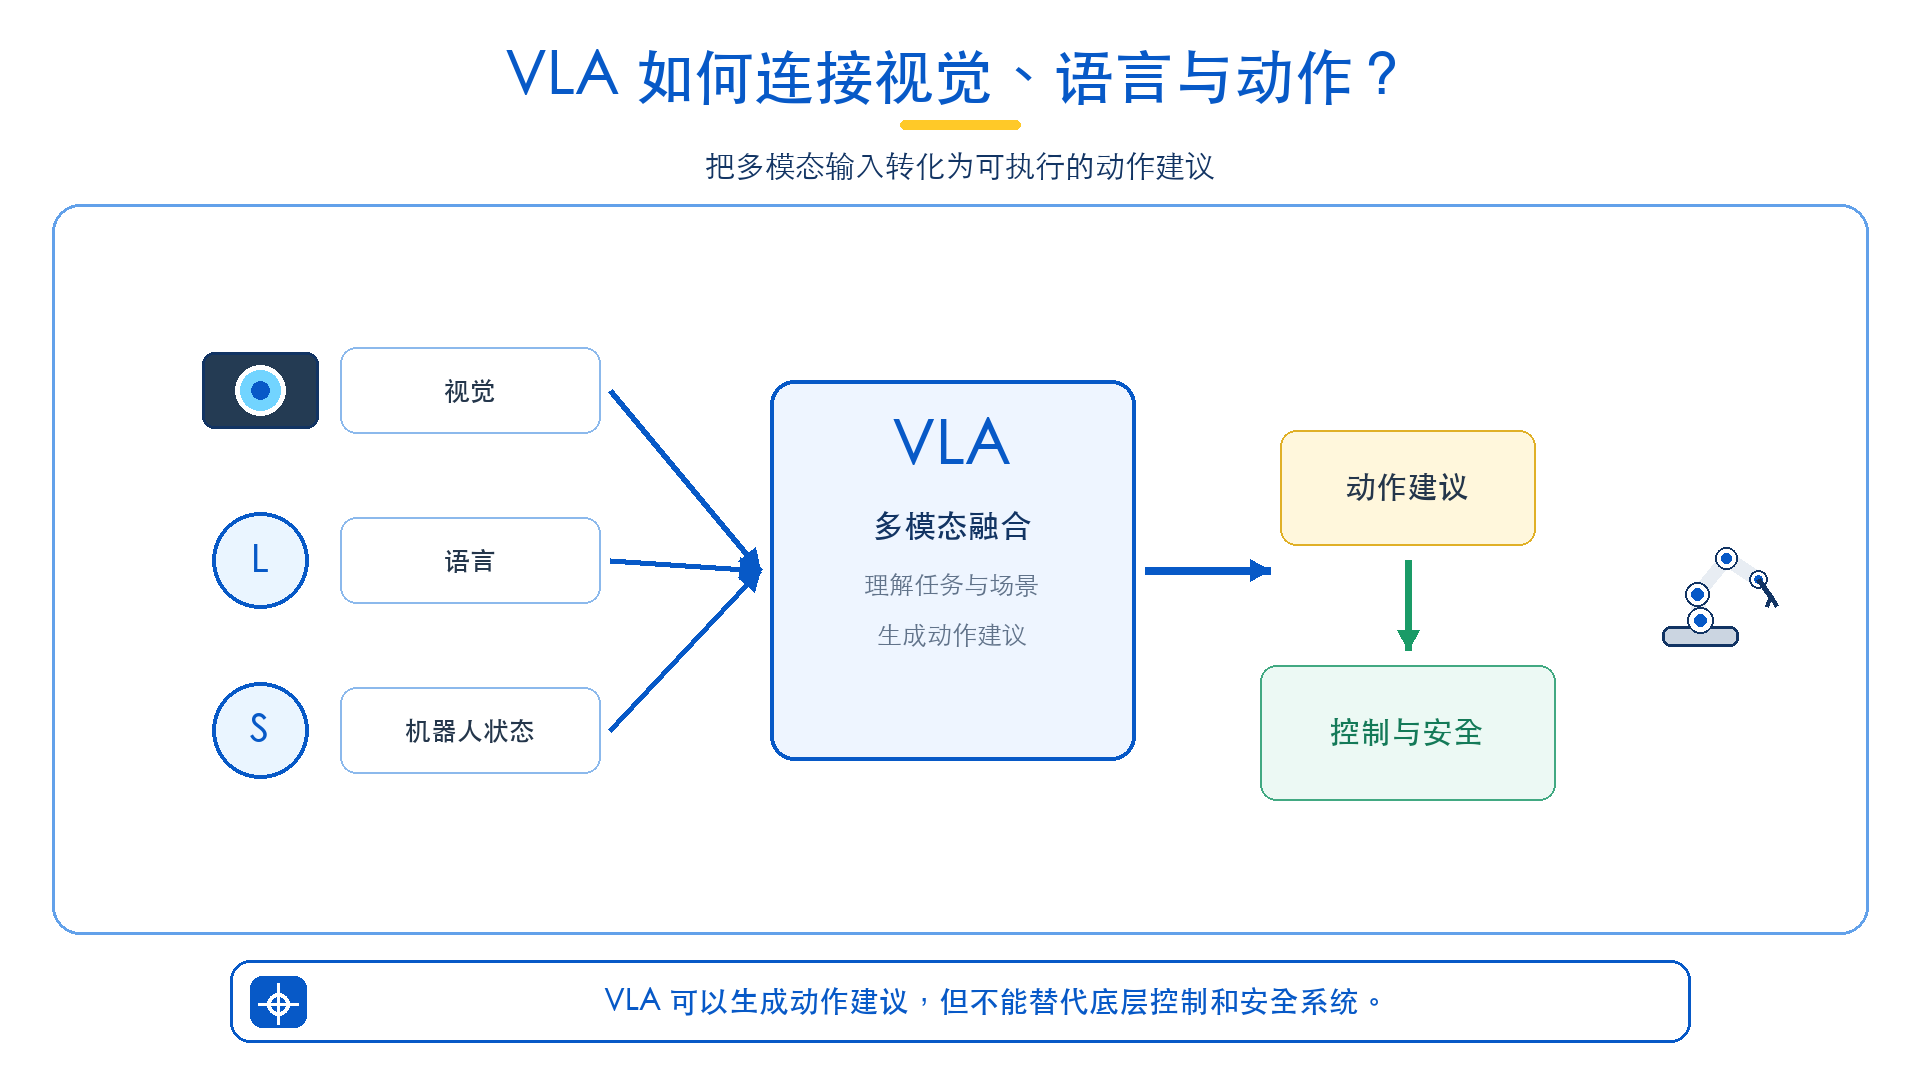
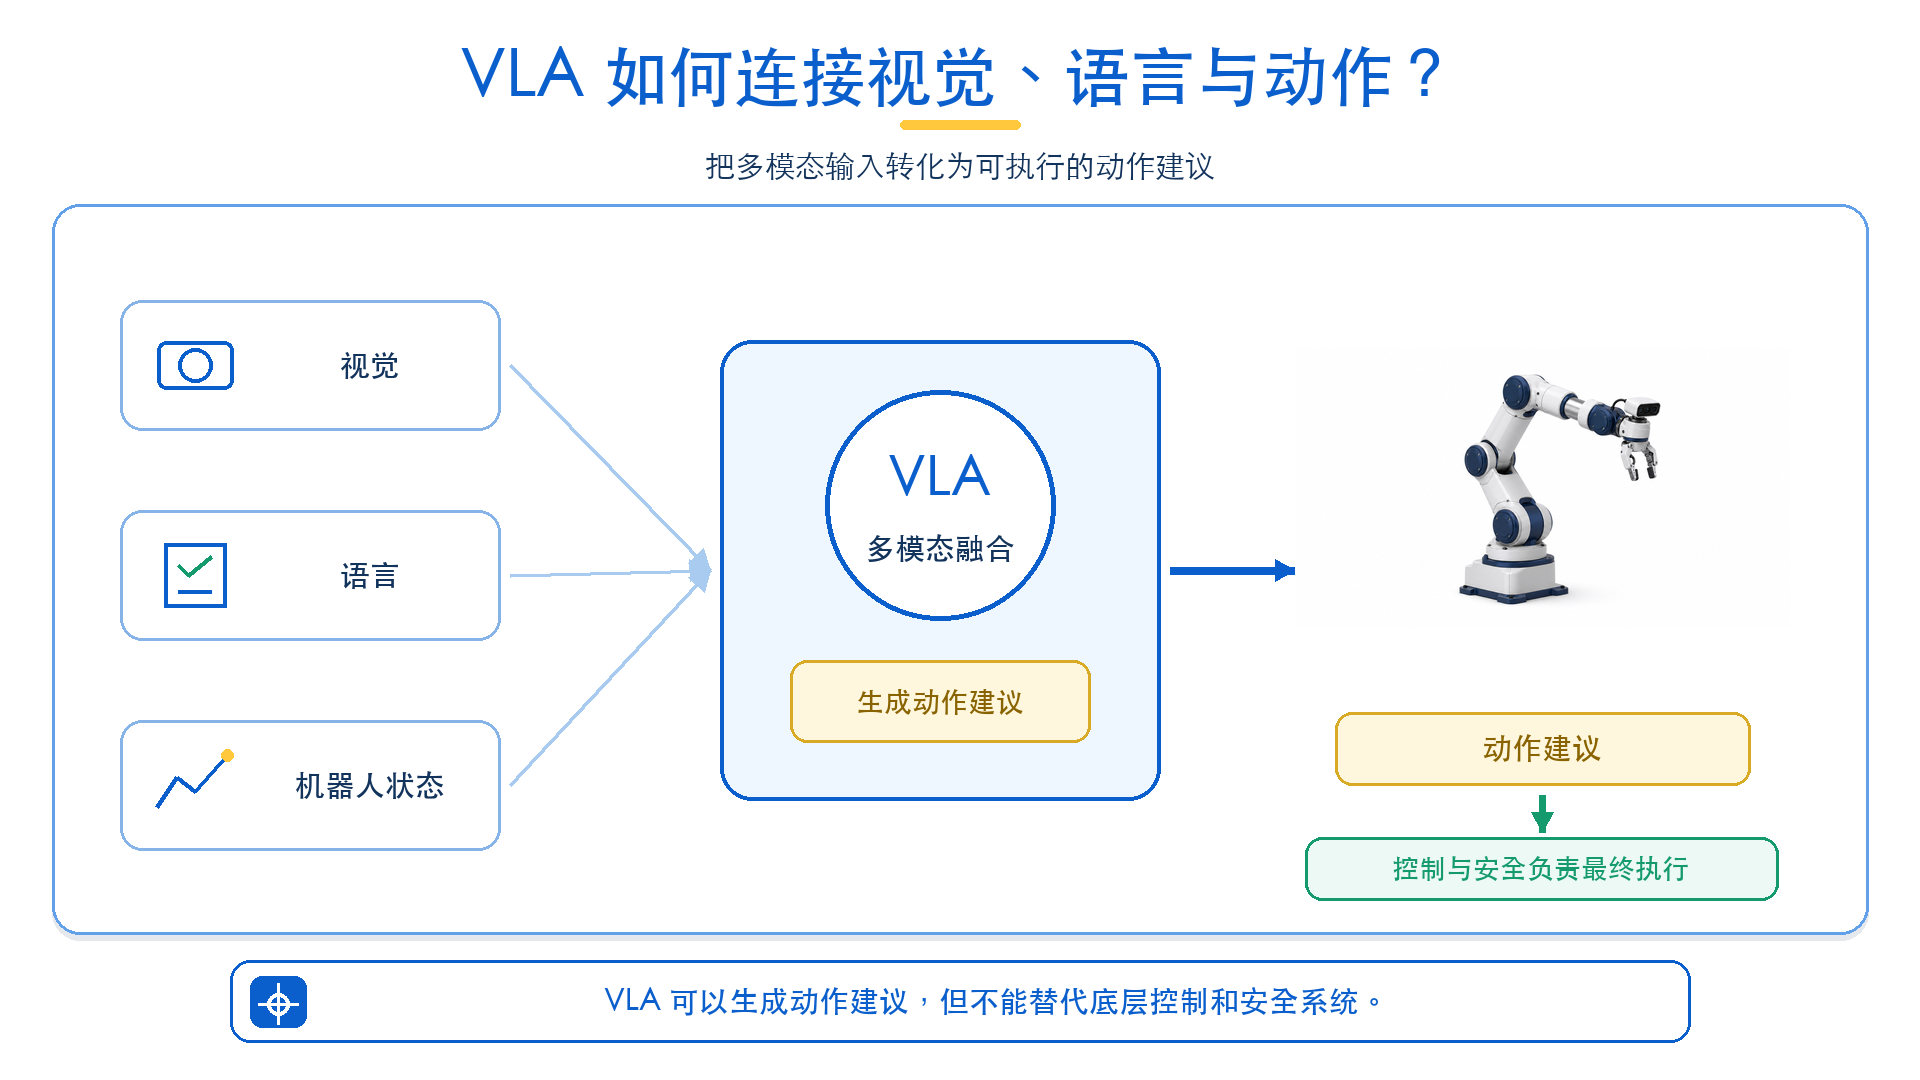
美化第一二讲概念示意图

diff --git a/tools/lecture_infographics/layouts_a.py b/tools/lecture_infographics/layouts_a.py
@@ -1,0 +1,282 @@
+from __future__ import annotations
+
+from pathlib import Path
+
+from PIL import Image, ImageDraw
+
+from .assets import ASSETS, load_asset
+from .components import (
+    draw_arrow,
+    draw_card,
+    draw_header,
+    draw_takeaway,
+    fit_text,
+    font,
+)
+from .manifest import FigureSpec
+from .theme import THEME
+
+
+WHITE = THEME.canvas
+BLUE = THEME.primary
+NAVY = THEME.primary_dark
+SOFT = THEME.primary_soft
+TEXT = THEME.text
+MUTED = THEME.muted
+YELLOW = THEME.accent
+GREEN = THEME.success
+RED = THEME.danger
+
+
+def _asset_dir(asset_dir: Path) -> Path:
+    if all((asset_dir / spec.filename).exists() for spec in ASSETS.values()):
+        return asset_dir
+    return Path(__file__).with_name("generated_assets")
+
+
+def _paste_asset(
+    image: Image.Image,
+    asset_dir: Path,
+    name: str,
+    box: tuple[int, int, int, int],
+) -> None:
+    x1, y1, x2, y2 = box
+    asset = load_asset(_asset_dir(asset_dir), name, (x2 - x1, y2 - y1))
+    image.paste(asset, (x1 + (x2 - x1 - asset.width) // 2, y1 + (y2 - y1 - asset.height) // 2))
+
+
+def _pill(
+    draw: ImageDraw.ImageDraw,
+    box: tuple[int, int, int, int],
+    text: str,
+    *,
+    fill: str = WHITE,
+    outline: str = THEME.border,
+    text_fill: str = TEXT,
+    size: int = 28,
+    weight: str = "bold",
+) -> None:
+    draw_card(draw, box, fill=fill, outline=outline, radius=17)
+    fit_text(draw, text, box, size, 26, weight, text_fill)
+
+
+def _badge(draw: ImageDraw.ImageDraw, center: tuple[int, int], number: int) -> None:
+    x, y = center
+    draw.ellipse((x - 24, y - 24, x + 24, y + 24), fill=BLUE)
+    draw.text((x, y), str(number), font=font(26, "bold"), fill=WHITE, anchor="mm")
+
+
+def _semantic_icon(draw: ImageDraw.ImageDraw, center: tuple[int, int], kind: str) -> None:
+    x, y = center
+    stroke = 4
+    if kind == "body":
+        draw.ellipse((x - 22, y - 36, x + 22, y + 8), outline=BLUE, width=stroke)
+        draw.line((x - 34, y + 32, x, y + 8, x + 34, y + 32), fill=BLUE, width=stroke)
+    elif kind == "sense":
+        draw.rounded_rectangle((x - 38, y - 24, x + 38, y + 24), radius=9, outline=BLUE, width=stroke)
+        draw.ellipse((x - 17, y - 17, x + 17, y + 17), outline=BLUE, width=stroke)
+    elif kind == "state":
+        draw.line((x - 38, y + 22, x - 18, y - 8, x, y + 6, x + 32, y - 30), fill=BLUE, width=stroke)
+        draw.ellipse((x + 26, y - 36, x + 38, y - 24), fill=YELLOW)
+    elif kind == "task":
+        draw.rectangle((x - 31, y - 32, x + 31, y + 32), outline=BLUE, width=stroke)
+        draw.line((x - 17, y - 10, x - 7, y, x + 16, y - 19), fill=GREEN, width=stroke)
+        draw.line((x - 17, y + 16, x + 16, y + 16), fill=BLUE, width=stroke)
+    elif kind == "policy":
+        draw.ellipse((x - 34, y - 32, x + 34, y + 32), outline=BLUE, width=stroke)
+        draw.line((x - 20, y + 18, x, y - 14, x + 20, y + 18), fill=BLUE, width=stroke)
+        draw.ellipse((x - 5, y - 19, x + 5, y - 9), fill=YELLOW)
+    elif kind == "control":
+        draw.ellipse((x - 31, y - 31, x + 31, y + 31), outline=BLUE, width=stroke)
+        draw.line((x, y, x + 20, y - 18), fill=BLUE, width=6)
+        draw.ellipse((x - 8, y - 8, x + 8, y + 8), fill=YELLOW)
+    elif kind == "data":
+        draw.ellipse((x - 36, y - 30, x + 36, y - 6), fill=SOFT, outline=BLUE, width=stroke)
+        draw.rectangle((x - 36, y - 18, x + 36, y + 26), fill=SOFT, outline=BLUE, width=stroke)
+        draw.arc((x - 36, y + 11, x + 36, y + 35), 0, 180, fill=BLUE, width=stroke)
+    elif kind == "shield":
+        draw.polygon(((x, y - 38), (x + 33, y - 24), (x + 27, y + 20), (x, y + 39), (x - 27, y + 20), (x - 33, y - 24)), fill="#ECF9F4", outline=GREEN)
+        draw.line((x - 16, y, x - 4, y + 13, x + 20, y - 17), fill=GREEN, width=6)
+    elif kind == "compute":
+        draw.rounded_rectangle((x - 34, y - 30, x + 34, y + 30), radius=7, fill=SOFT, outline=BLUE, width=stroke)
+        draw.rectangle((x - 15, y - 13, x + 15, y + 13), fill=BLUE)
+        for offset in (-20, 0, 20):
+            draw.line((x - 47, y + offset, x - 34, y + offset), fill=BLUE, width=3)
+            draw.line((x + 34, y + offset, x + 47, y + offset), fill=BLUE, width=3)
+    elif kind == "sensor":
+        draw.rounded_rectangle((x - 39, y - 25, x + 39, y + 25), radius=10, fill=NAVY)
+        draw.ellipse((x - 18, y - 18, x + 18, y + 18), fill="#6CD4FF", outline=WHITE, width=4)
+    elif kind == "actuator":
+        draw.ellipse((x - 34, y - 34, x + 34, y + 34), fill=SOFT, outline=BLUE, width=stroke)
+        draw.ellipse((x - 13, y - 13, x + 13, y + 13), fill=BLUE)
+        for dx, dy in ((0, -45), (0, 45), (-45, 0), (45, 0)):
+            draw.line((x, y, x + dx, y + dy), fill=BLUE, width=5)
+    elif kind == "network":
+        for dx, dy in ((0, -30), (-34, 24), (34, 24)):
+            draw.ellipse((x + dx - 11, y + dy - 11, x + dx + 11, y + dy + 11), fill=BLUE)
+        draw.line((x, y - 19, x - 25, y + 15, x + 25, y + 15), fill=BLUE, width=stroke)
+
+
+def draw_1_1(image: Image.Image, draw: ImageDraw.ImageDraw, spec: FigureSpec, asset_dir: Path) -> None:
+    draw_card(draw, (90, 260, 785, 890), fill="#F6F8FB", outline="#B8C9DB")
+    draw_card(draw, (1135, 260, 1830, 890), fill="#F1F8FF", outline=BLUE)
+    draw.text((438, 312), "数字 AI", font=font(36, "bold"), fill=NAVY, anchor="mm")
+    draw.text((1482, 312), "具身智能", font=font(36, "bold"), fill=NAVY, anchor="mm")
+    draw.rounded_rectangle((220, 375, 655, 650), radius=22, fill=NAVY)
+    draw.rectangle((242, 398, 633, 602), fill=WHITE)
+    for index, width in enumerate((275, 225, 298, 175)):
+        draw.rounded_rectangle((285, 445 + index * 36, 285 + width, 459 + index * 36), radius=7, fill="#7F9DBD")
+    draw.rounded_rectangle((360, 664, 516, 686), radius=10, fill="#8DA2B9")
+    _pill(draw, (260, 738, 615, 820), "文本 / 图像", fill=WHITE, outline="#9CB4CB", text_fill=MUTED, size=30)
+    _paste_asset(image, asset_dir, "desktop_pick", (1170, 350, 1795, 775))
+    _pill(draw, (1245, 787, 1720, 855), "感知环境并执行动作", fill=WHITE, outline=BLUE, size=28)
+    draw_arrow(draw, (810, 460), (1110, 460), width=8)
+    draw.text((960, 415), "行动", font=font(30, "bold"), fill=BLUE, anchor="mm")
+    draw_arrow(draw, (1110, 710), (810, 710), semantic="success", width=7)
+    draw.text((960, 755), "反馈", font=font(30, "bold"), fill=GREEN, anchor="mm")
+
+
+def draw_1_2(image: Image.Image, draw: ImageDraw.ImageDraw, spec: FigureSpec, asset_dir: Path) -> None:
+    draw.ellipse((690, 300, 1230, 840), fill="#F3F9FF", outline="#78AFE9", width=5)
+    _paste_asset(image, asset_dir, "robot_arm_camera", (720, 330, 1200, 750))
+    _pill(draw, (790, 770, 1130, 844), "具身智能体", fill=BLUE, outline=BLUE, text_fill=WHITE, size=32)
+    items = [
+        ((165, 325, 485, 445), "身体", "body", (650, 430)),
+        ((145, 510, 465, 630), "感知", "sense", (680, 550)),
+        ((205, 695, 525, 815), "状态", "state", (715, 675)),
+        ((1435, 325, 1755, 445), "任务", "task", (1270, 430)),
+        ((1455, 510, 1775, 630), "策略", "policy", (1240, 550)),
+        ((1395, 695, 1715, 815), "控制", "control", (1205, 675)),
+        ((800, 250, 1120, 338), "数据", "data", (960, 350)),
+    ]
+    for index, (box, label, kind, endpoint) in enumerate(items, start=1):
+        x1, y1, x2, y2 = box
+        start = ((x1 + x2) // 2, (y1 + y2) // 2)
+        draw.line((*start, *endpoint), fill="#8CB9EC", width=4)
+        draw_card(draw, box, fill=WHITE, outline="#8CB9EC", radius=20)
+        _semantic_icon(draw, (x1 + 68, (y1 + y2) // 2), kind)
+        fit_text(draw, label, (x1 + 115, y1 + 12, x2 - 18, y2 - 12), 30, 26, "bold", NAVY)
+        _badge(draw, (x1 + 25, y1 + 25), index)
+
+
+def draw_1_4(image: Image.Image, draw: ImageDraw.ImageDraw, spec: FigureSpec, asset_dir: Path) -> None:
+    _paste_asset(image, asset_dir, "robot_arm", (90, 370, 600, 860))
+    _pill(draw, (120, 280, 570, 345), "共同服务于可靠行动", fill=SOFT, outline=BLUE, size=28)
+    stages = [
+        (560, 688, "传统 Pipeline", "可靠执行", "#EAF4FF"),
+        (790, 606, "模仿学习", "从示范学习", "#EEF8F4"),
+        (1020, 524, "强化学习", "探索优化", "#FFF7DD"),
+        (1250, 442, "VLA", "多模态泛化", "#F2EEFF"),
+        (1480, 360, "世界模型", "预测未来", "#FFF0EA"),
+    ]
+    for index, (x, y, title, role, fill) in enumerate(stages, start=1):
+        draw_card(draw, (x, y, x + 245, 868), fill=fill, outline="#78ABE3", radius=22)
+        _badge(draw, (x + 122, y + 32), index)
+        fit_text(draw, title, (x + 12, y + 60, x + 233, y + 108), 28, 26, "bold", NAVY)
+        draw.line((x + 24, y + 112, x + 221, y + 112), fill="#B6CDE7", width=3)
+        fit_text(draw, role, (x + 18, y + 118, x + 227, min(y + 170, 856)), 27, 26, "regular", TEXT)
+    draw.text((1210, 295), "能力扩展方向  ↗", font=font(28, "bold"), fill=BLUE, anchor="mm")
+
+
+def draw_1_5(image: Image.Image, draw: ImageDraw.ImageDraw, spec: FigureSpec, asset_dir: Path) -> None:
+    inputs = (("视觉", "sense", 300), ("语言", "task", 510), ("机器人状态", "state", 720))
+    for label, kind, y in inputs:
+        draw_card(draw, (120, y, 500, y + 130), fill=WHITE, outline="#86B4E8", radius=22)
+        _semantic_icon(draw, (195, y + 65), kind)
+        fit_text(draw, label, (260, y + 18, 480, y + 112), 30, 26, "bold", NAVY)
+        draw_arrow(draw, (510, y + 65), (710, 570), semantic="secondary", width=4)
+    draw_card(draw, (720, 340, 1160, 800), fill="#EEF6FF", outline=BLUE, width=4, radius=32)
+    draw.ellipse((825, 390, 1055, 620), fill=WHITE, outline=BLUE, width=5)
+    draw.text((940, 478), "VLA", font=font(54, "bold"), fill=BLUE, anchor="mm")
+    draw.text((940, 548), "多模态融合", font=font(30, "bold"), fill=NAVY, anchor="mm")
+    _pill(draw, (790, 660, 1090, 742), "生成动作建议", fill="#FFF7DD", outline="#D9AA25", text_fill="#896300", size=28)
+    draw_arrow(draw, (1170, 570), (1295, 570), width=8)
+    _paste_asset(image, asset_dir, "robot_arm_camera", (1295, 275, 1790, 700))
+    _pill(draw, (1335, 712, 1750, 785), "动作建议", fill="#FFF7DD", outline="#D9AA25", text_fill="#896300", size=30)
+    draw_arrow(draw, (1542, 795), (1542, 832), semantic="success", width=7)
+    _pill(draw, (1305, 837, 1778, 900), "控制与安全负责最终执行", fill="#ECF9F4", outline=GREEN, text_fill=GREEN, size=27)
+
+
+def draw_1_6(image: Image.Image, draw: ImageDraw.ImageDraw, spec: FigureSpec, asset_dir: Path) -> None:
+    draw_card(draw, (90, 285, 515, 870), fill="#F7FAFD", outline="#9CB8D4", radius=24)
+    draw.text((302, 330), "当前场景", font=font(32, "bold"), fill=NAVY, anchor="mm")
+    _paste_asset(image, asset_dir, "desktop_pick", (115, 375, 490, 685))
+    _pill(draw, (150, 742, 455, 824), "生成候选动作", fill=SOFT, outline=BLUE, size=28)
+    draw_arrow(draw, (525, 575), (630, 575), width=8)
+    draw.text((578, 527), "预演", font=font(28, "bold"), fill=BLUE, anchor="mm")
+    cards = [
+        (640, "左侧抓取", "碰撞风险", RED, "danger"),
+        (1015, "上方抓取", "遮挡目标", RED, "danger"),
+        (1390, "先移开障碍", "成功概率高", GREEN, "success"),
+    ]
+    for index, (x, action, outcome, color, style) in enumerate(cards):
+        draw_card(draw, (x, 295, x + 330, 870), fill=WHITE, outline="#8AB5E7", radius=24)
+        _pill(draw, (x + 28, 325, x + 302, 395), action, fill=SOFT, outline="#8AB5E7", size=27)
+        _paste_asset(image, asset_dir, "robot_arm", (x + 35, 420, x + 295, 660))
+        draw_card(draw, (x + 35, 690, x + 295, 825), style=style, radius=18)
+        symbol = "✓" if color == GREEN else "×"
+        draw.text((x + 80, 758), symbol, font=font(46, "bold"), fill=color, anchor="mm")
+        fit_text(draw, outcome, (x + 122, 708, x + 282, 808), 27, 26, "bold", color)
+        if index == 2:
+            draw.rounded_rectangle((x + 15, 280, x + 315, 883), radius=28, outline=GREEN, width=6)
+            draw.text((x + 165, 842), "推荐", font=font(26, "bold"), fill=GREEN, anchor="mm")
+
+
+def draw_1_8(image: Image.Image, draw: ImageDraw.ImageDraw, spec: FigureSpec, asset_dir: Path) -> None:
+    scenes = [
+        ("桌面抓取", "desktop_pick", 610),
+        ("移动操作", "mobile_manipulator", 540),
+        ("工业 / 商超", "robot_arm", 470),
+        ("家庭服务", "mobile_manipulator", 400),
+        ("人形机器人", "humanoid_robot", 330),
+    ]
+    for index, (label, asset_name, top) in enumerate(scenes):
+        x = 90 + index * 354
+        bottom = 860
+        draw_card(draw, (x, top, x + 312, bottom), fill="#F5FAFF", outline="#7CACDF", radius=22)
+        _badge(draw, (x + 38, top + 38), index + 1)
+        _paste_asset(image, asset_dir, asset_name, (x + 18, top + 55, x + 294, bottom - 78))
+        _pill(draw, (x + 18, bottom - 78, x + 294, bottom - 15), label, fill=WHITE, outline="#91B9E5", size=27)
+        if index < len(scenes) - 1:
+            draw_arrow(draw, (x + 312, top + 95), (x + 344, top + 68), semantic="secondary", width=4)
+    draw_arrow(draw, (145, 882), (1765, 882), semantic="accent", width=7)
+    draw.text((960, 915), "开放性  ·  任务时长  ·  安全要求  持续上升", font=font(28, "bold"), fill="#8A6500", anchor="mm")
+
+
+def draw_2_1(image: Image.Image, draw: ImageDraw.ImageDraw, spec: FigureSpec, asset_dir: Path) -> None:
+    draw.ellipse((620, 275, 1300, 895), fill="#F2F8FF", outline="#7AAFE8", width=5)
+    _paste_asset(image, asset_dir, "robot_arm_camera", (650, 300, 1270, 835))
+    _pill(draw, (785, 814, 1135, 880), "机器人硬件系统", fill=BLUE, outline=BLUE, text_fill=WHITE, size=30)
+    items = [
+        ((105, 290, 480, 420), "本体与机构", "body", (665, 410)),
+        ((85, 500, 460, 630), "传感器", "sensor", (630, 555)),
+        ((155, 710, 530, 840), "执行器", "actuator", (680, 720)),
+        ((1440, 290, 1815, 420), "计算平台", "compute", (1255, 410)),
+        ((1460, 500, 1835, 630), "通信与同步", "network", (1290, 555)),
+        ((1390, 710, 1765, 840), "电源与安全", "shield", (1240, 720)),
+    ]
+    for index, (box, label, kind, endpoint) in enumerate(items, start=1):
+        x1, y1, x2, y2 = box
+        start = ((x1 + x2) // 2, (y1 + y2) // 2)
+        draw.line((*start, *endpoint), fill="#80AFE3", width=4)
+        draw_card(draw, box, fill=WHITE, outline="#80AFE3", radius=22)
+        _semantic_icon(draw, (x1 + 78, (y1 + y2) // 2), kind)
+        fit_text(draw, label, (x1 + 140, y1 + 18, x2 - 18, y2 - 18), 29, 26, "bold", NAVY)
+        _badge(draw, (x1 + 27, y1 + 27), index)
+
+
+A_LAYOUTS = {
+    "1-1": draw_1_1,
+    "1-2": draw_1_2,
+    "1-4": draw_1_4,
+    "1-5": draw_1_5,
+    "1-6": draw_1_6,
+    "1-8": draw_1_8,
+    "2-1": draw_2_1,
+}
+
+
+def render_a(image: Image.Image, draw: ImageDraw.ImageDraw, spec: FigureSpec, asset_dir: Path) -> None:
+    draw_header(draw, spec)
+    A_LAYOUTS[spec.key](image, draw, spec, asset_dir)
+    draw_takeaway(draw, spec.takeaway)

diff --git a/tools/lecture_infographics/render.py b/tools/lecture_infographics/render.py
@@ -14,6 +14,7 @@ from .components import (
 )
 from .manifest import FigureSpec
 from .theme import THEME
+from .layouts_a import render_a
 
 
 W, H = 1920, 1080
@@ -313,6 +314,11 @@ def generic_c(draw: ImageDraw.ImageDraw, spec: FigureSpec) -> None:
 def render_figure(spec: FigureSpec, asset_dir: Path, output: Path) -> None:
     image = Image.new("RGB", (W, H), WHITE)
     draw = ImageDraw.Draw(image)
+    if spec.template == "A":
+        render_a(image, draw, spec, asset_dir)
+        output.parent.mkdir(parents=True, exist_ok=True)
+        image.save(output, "PNG", optimize=True, icc_profile=SRGB_PROFILE)
+        return
     header(draw, spec)
     custom = {
         "1-1": visual_1_1,
@@ -329,8 +335,6 @@ def render_figure(spec: FigureSpec, asset_dir: Path, output: Path) -> None:
         visual_2_1(draw, spec, image, asset_dir)
     elif custom:
         custom(draw, spec)
-    elif spec.template == "A":
-        generic_a(draw, spec)
     elif spec.template == "B":
         generic_b(draw, spec)
     else:

diff --git a/tools/lecture_infographics/test_render.py b/tools/lecture_infographics/test_render.py
@@ -135,6 +135,15 @@ class AssetTests(unittest.TestCase):
                 self.assertIn(image.mode, {"RGB", "RGBA"})
 
 
+class LayoutTests(unittest.TestCase):
+    def test_all_a_figures_have_explicit_layouts(self):
+        from tools.lecture_infographics.layouts_a import A_LAYOUTS
+
+        figures = load_manifest()
+        expected = {key for key, spec in figures.items() if spec.template == "A"}
+        self.assertEqual(set(A_LAYOUTS), expected)
+
+
 class RenderTests(unittest.TestCase):
     def test_render_figure_writes_1920_by_1080_png(self):
         figures = load_manifest()

diff --git a/.superpowers/sdd/task-3-report.md b/.superpowers/sdd/task-3-report.md
@@ -1,0 +1,45 @@
+# Task 3 执行报告：美化七张 A 类概念示意图
+
+## 结果
+
+已完成 `1-1`、`1-2`、`1-4`、`1-5`、`1-6`、`1-8`、`2-1` 七张 A 类图的显式布局与成图。七张图统一使用共享标题区、结论条、语义配色和 3D 机器人素材；文字与箭头均由 Pillow 确定性绘制。`manifest.py` 未修改，B/C 类成图、第二讲 Markdown 和 `.crdownload` 均未保留任何变更。
+
+## TDD：RED / GREEN
+
+- RED：先在 `LayoutTests` 增加 `test_all_a_figures_have_explicit_layouts`，指定命令失败，原因为 `tools.lecture_infographics.layouts_a` 不存在，错误为 `ModuleNotFoundError`。
+- GREEN：创建 `layouts_a.py`，`A_LAYOUTS` 精确包含七个 A 类键，并将 `render.py` 的 A 类调度改为 `render_a(...)`。
+- 布局与渲染定向验证：3/3 通过。
+- 最终完整测试：14/14 通过，用时 2.652 s。
+- 额外产物检查：七张 A 图均为 1920×1080、RGB/RGBA，且包含 sRGB ICC profile；`git diff --check` 通过。
+
+## 七张图的具体改进
+
+- 图 1-1：以「数字 AI 屏幕」与「桌面抓取场景」左右对照，用蓝色行动箭头和绿色反馈箭头形成闭环。
+- 图 1-2：以带相机机械臂为视觉中心，七个组成部分使用不同语义图标环绕，并用编号稳定阅读顺序。
+- 图 1-4：保留五级技术路线阶梯，将「可靠执行—学习—优化—泛化—预测」作为能力扩展主线，并加入统一机械臂锚点。
+- 图 1-5：统一视觉、语言、状态输入图标，用中央 VLA 融合核与 3D 机械臂串起数据流，并以黄/绿分层明确「动作建议」与「控制安全」责任边界。
+- 图 1-6：左侧使用完整桌面场景，右侧三个候选动作统一机械臂视角；红色风险与绿色推荐结果一眼可辨。
+- 图 1-8：五个场景按难度阶梯上升，分别配置桌面、移动、工业、家庭和人形机器人素材，底部趋势线与指标文字分离。
+- 图 2-1：以带相机机械臂为硬件系统中心，六类硬件使用一致卡片、语义图标和指引线，避免原图的平均分散感。
+
+## 视觉 QA
+
+已生成七图联系表，并按原尺寸检查图 1-2、1-6、2-1；额外放大检查图 1-8。首轮发现图 1-8 指标文字压线、图 1-6 「推荐」过贴底边，修正后重新渲染并复查。最终未见标签遮挡、引导线交叉、中心空洞或机器人材质明显不一致。
+
+## 变更文件
+
+- 新增：`tools/lecture_infographics/layouts_a.py`
+- 修改：`tools/lecture_infographics/render.py`
+- 修改：`tools/lecture_infographics/test_render.py`
+- 修改：七张 A 类 PNG 成图
+- 新增：`.superpowers/sdd/task-3-report.md`
+
+## 提交
+
+提交信息：`美化第一二讲概念示意图`。最终提交哈希以任务回传状态为准。
+
+## 自检与关注点
+
+- 自检：`A_LAYOUTS` 键集与 manifest 的 A 类键集完全一致；渲染器在资产目录缺失时会回退到包内统一资产目录，保持测试可重复。
+- 关注点：图 1-8 的「家庭服务」复用移动操作平台素材，语义依靠标签区分；这是现有五个统一素材的可控限制，未引入新素材或改动 manifest。
+- 非本任务的 `.superpowers/sdd/` 简报与既有未跟踪文件不纳入提交，仅显式添加本报告。
